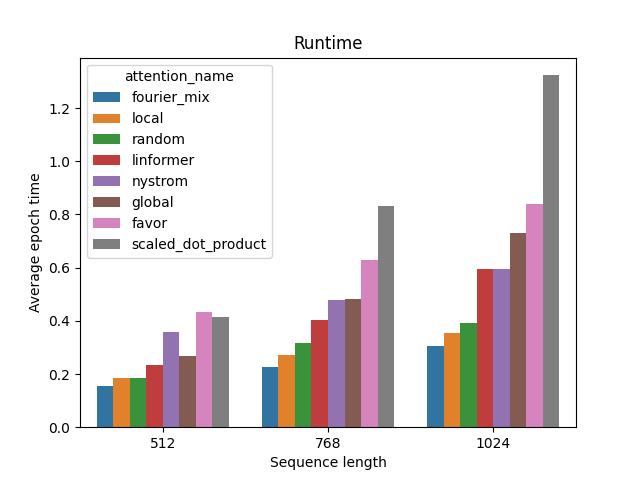
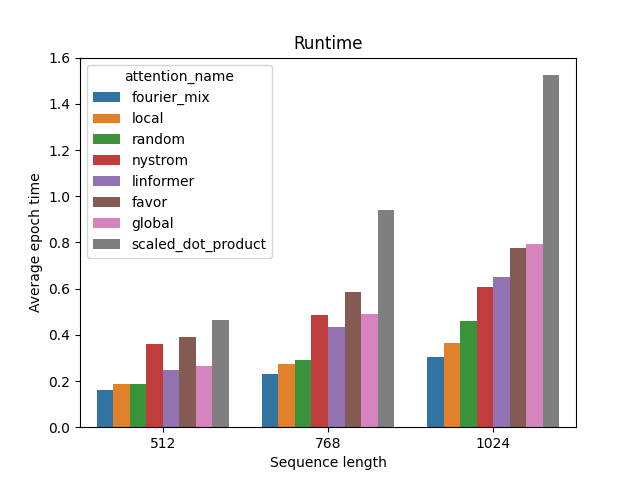
[fix] broken dropout setting which was tripping autograd (#131)

diff --git a/benchmarks/benchmark_encoder.py b/benchmarks/benchmark_encoder.py
@@ -315,9 +315,9 @@ if __name__ == "__main__":
         "device": torch.device("cuda") if _use_cuda else torch.device("cpu"),
         "num_warmup": 5,
         "num_steps": 10,
-        "dropout": 0.0,
-        "attn_dropout": 0.0,
-        "residual_dropout": 0.0,
+        "dropout": 0.1,
+        "attn_dropout": 0.1,
+        "residual_dropout": 0.1,
         "profile": args.profile,
     }
 

diff --git a/xformers/components/multi_head_dispatch.py b/xformers/components/multi_head_dispatch.py
@@ -70,7 +70,7 @@ class MultiHeadDispatch(nn.Module):
         self.project_value = nn.Linear(dim_model, dim_value, bias=False)
 
         # Regularization
-        self.resid_drop = nn.Dropout(residual_dropout, inplace=True)
+        self.resid_drop = nn.Dropout(residual_dropout, inplace=False)
 
         # Output projection
         self.proj = nn.Linear(dim_model, dim_model, bias=False)

diff --git a/xformers/components/attention/linformer.py b/xformers/components/attention/linformer.py
@@ -36,7 +36,7 @@ class LinformerAttention(Attention):
         self.k = k
         self.E = nn.Linear(seq_len, k, bias=False)
         self.F = nn.Linear(seq_len, k, bias=False)
-        self.attn_drop = nn.Dropout(dropout, inplace=True)
+        self.attn_drop = nn.Dropout(dropout, inplace=False)
         self.seq_len = seq_len
 
     def forward(

diff --git a/xformers/components/attention/random.py b/xformers/components/attention/random.py
@@ -51,7 +51,7 @@ class RandomAttention(Attention):
         """
         super().__init__()
 
-        self.attn_drop = nn.Dropout(dropout, inplace=True)
+        self.attn_drop = nn.Dropout(dropout, inplace=False)
         self.causal = causal
         self.r = r
         self.rand_attention_mask: Optional[torch.Tensor] = None

diff --git a/xformers/components/attention/local.py b/xformers/components/attention/local.py
@@ -60,7 +60,7 @@ class LocalAttention(Attention):
         """
         super().__init__()
 
-        self.attn_drop = nn.Dropout(dropout, inplace=True)
+        self.attn_drop = nn.Dropout(dropout, inplace=False)
         self.causal = causal
         self.force_sparsity = force_sparsity
 

diff --git a/xformers/components/attention/scaled_dot_product.py b/xformers/components/attention/scaled_dot_product.py
@@ -24,7 +24,7 @@ class ScaledDotProduct(Attention):
         **kwargs,
     ):
         super().__init__()
-        self.attn_drop = nn.Dropout(dropout, inplace=True)
+        self.attn_drop = nn.Dropout(dropout, inplace=False)
         self.causal = causal
         self.seq_len = seq_len
 
